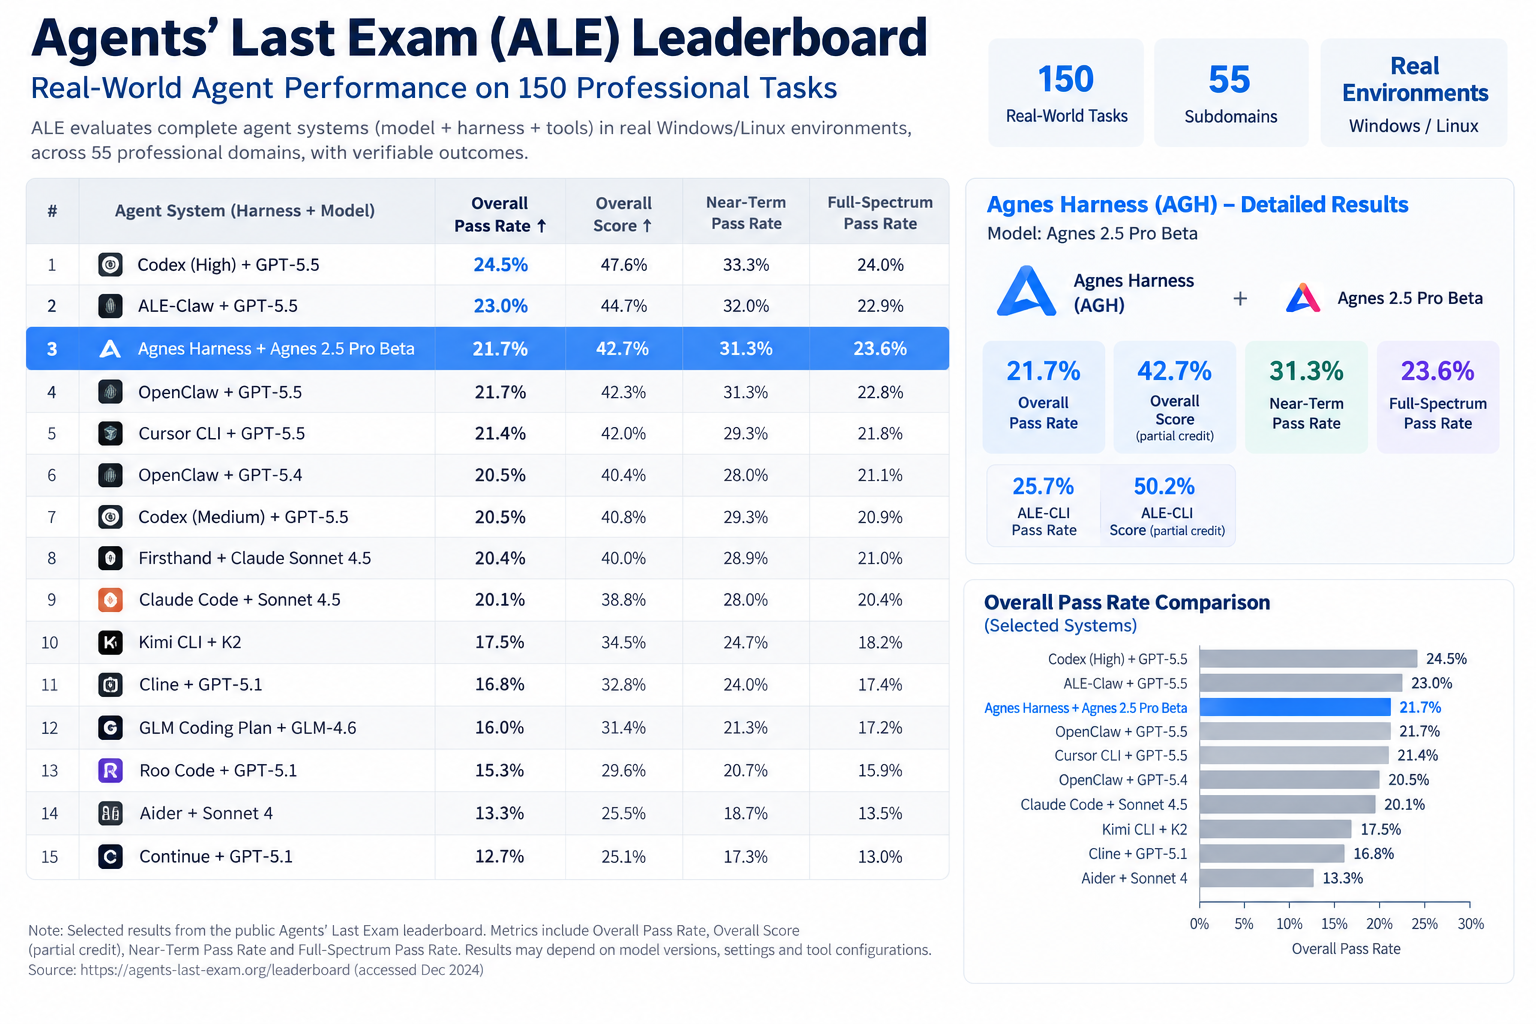
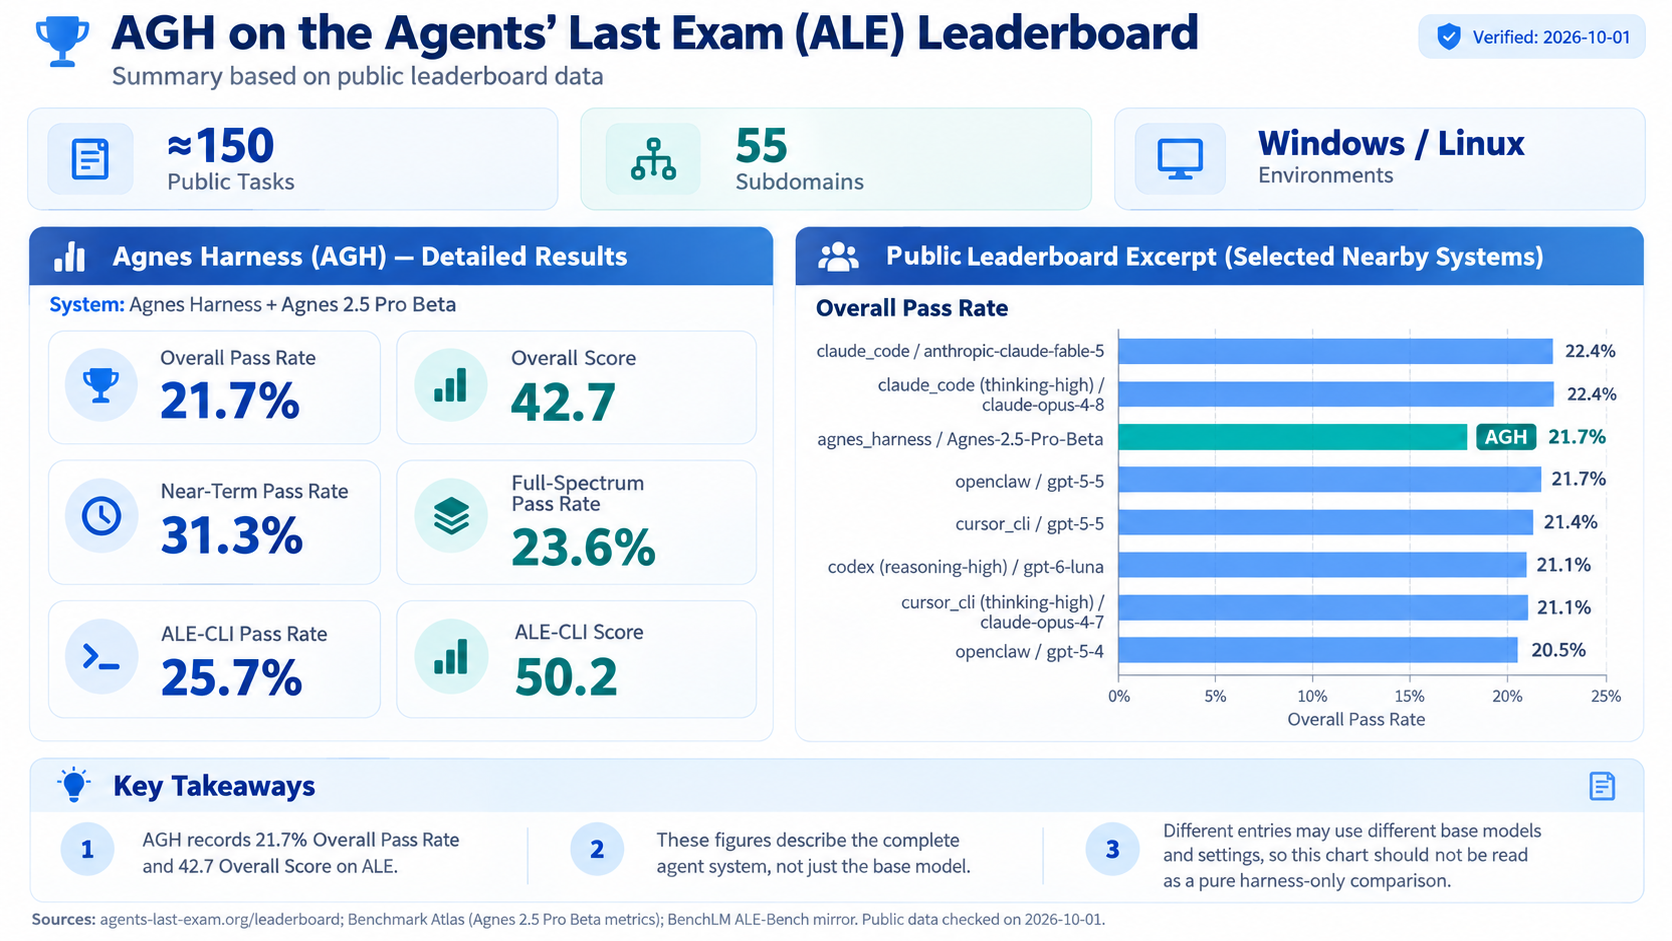
docs(readme): replace the ALE leaderboard image with the leaderboard excerpt
The new image shows AGH's six results beside nearby public entries and notes
that entries use different models and settings, without a rank claim. Every
figure matches the public ALE-V1 leaderboard.

diff --git a/README.md b/README.md
@@ -146,7 +146,7 @@ From inspection to instrument coordination, field work connects device state, hu
 On the public [Agents' Last Exam (ALE) leaderboard](https://agents-last-exam.org/leaderboard), which evaluates complete agent systems (model, harness, and tools) on professional tasks, Agnes Harness with Agnes 2.5 Pro Beta reaches a 21.7% overall pass rate, level with OpenClaw + GPT-5.5.
 
 <p align="center">
-  <img src="docs/assets/readme/ale-leaderboard.png" alt="Agents' Last Exam leaderboard results for Agnes Harness with Agnes 2.5 Pro Beta: 21.7% overall pass rate, 42.7% overall score, 31.3% near-term pass rate, 23.6% full-spectrum pass rate, 25.7% ALE-CLI pass rate and 50.2% ALE-CLI score" width="100%" />
+  <img src="docs/assets/readme/ale-leaderboard.png" alt="Agents' Last Exam results for Agnes Harness with Agnes 2.5 Pro Beta: 21.7% overall pass rate, 42.7% overall score, 31.3% near-term pass rate, 23.6% full-spectrum pass rate, 25.7% ALE-CLI pass rate and 50.2% ALE-CLI score, beside an excerpt of nearby leaderboard entries whose models and settings differ" width="100%" />
 </p>
 
 <p align="center"><sub>Results depend on model versions, settings, and tool configurations. See the leaderboard for current figures.</sub></p>
